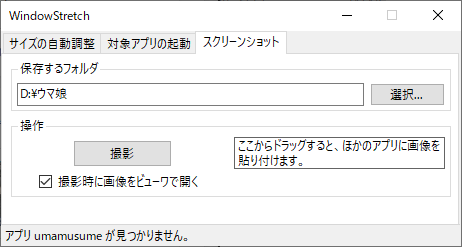
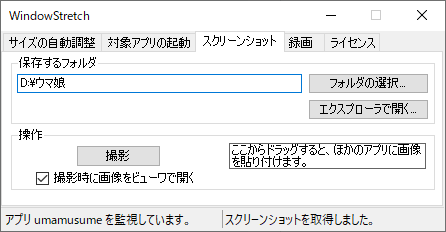
READMEを更新。

diff --git a/WindowStretch/Model/RecordModel.cs b/WindowStretch/Model/RecordModel.cs
@@ -88,13 +88,13 @@ namespace WindowStretch.Model
                         Bitrate = AudioBitrate.bitrate_128kbps,
                         IsInputDeviceEnabled = false,
                         InputVolume = 0.0f,
-                        OutputVolume = 1.0f / volume * 2,
+                        OutputVolume = 1.0f / volume * 3, // TODO x3ってなんだよ
                     },
                     VideoOptions = new VideoOptions
                     {
                         BitrateMode = BitrateControlMode.UnconstrainedVBR,
                         Bitrate = 4 * 1000 * 1000,
-                        Framerate = 120,
+                        Framerate = 120, // TODO これより下げるとコマ落ちする、なんでだ
                         IsFixedFramerate = false,
                         EncoderProfile = H264Profile.High
                     },

diff --git a/README.md b/README.md
@@ -5,7 +5,8 @@
 
 [こちら](https://github.com/seeker3600/WindowStretch/releases/download/v0.6.0/WindowStretch.zip) から最新版をダウンロードし、zipファイルを解凍してください。
 
-Windows8.1、または 10 の古いバージョンをご利用の方は、 [.net framework 4.8](https://dotnet.microsoft.com/download/dotnet-framework/thank-you/net48-web-installer) をインストールしてください。
+* Windows8.1、または 10 の古いバージョンをご利用の方は、 [.net framework 4.8](https://dotnet.microsoft.com/download/dotnet-framework/thank-you/net48-web-installer) をインストールする必要があります。
+* Windows 10 April 2018 Update (1803) より前のバージョンをご利用の場合、録画機能は使用できません。
 
 ## アンインストール
 解凍したフォルダを削除してください。設定データはAppData内に保存していますので、別途削除が必要です。
@@ -37,19 +38,31 @@ Windows8.1、または 10 の古いバージョンをご利用の方は、 [.net
 ![screenshot](img/screenshot.png)
 
 * 画像を保存するフォルダを指定して「撮影」ボタンを押すと、ウマ娘のスクリーンショットを撮ります。
+	* フォルダが存在しないと撮影に失敗します。あらかじめフォルダを作成してください。
+	* 「エクスプローラで開く」ボタンを押して、フォルダが開けるか確認できます。
 * 左下のチェックを入れると、撮影時に画像をビューワで開きます。
 * 右の領域から別のアプリにドラッグ＆ドロップできます。ブラウザに画像を直接投稿するときに便利です。
 
+### 「録画」タブ
+
+![record](img/record.png)
+
+* 動画を保存するフォルダを指定して「録画開始」ボタンを押すと、ウマ娘の動画を撮ります。
+	* フォルダが存在しないと録画に失敗します。あらかじめフォルダを作成してください。
+	* 「エクスプローラで開く」ボタンを押して、フォルダが開けるか確認できます。
+* 録画中の音はすべて録音されます。ほかのソフトが音を出さないか注意してください。
+
+
 ## 対応環境
 
-Windows 10 Pro バージョン 2004 で動作を確認しています。
+Windows 10 Pro バージョン 2004 (x64) で動作を確認しています。
 それ以外の環境で動く／動かない場合はご連絡ください。
 
 ## TODO
 * [x] アプリの起動
 * [x] マニフェストの設定
 * [x] スクリーンショット
-* [ ] 録画
+* [x] 録画
 * [x] コンテキストメニュー
 * [ ] 固定値をなくす
 * [ ] リファクタリング
